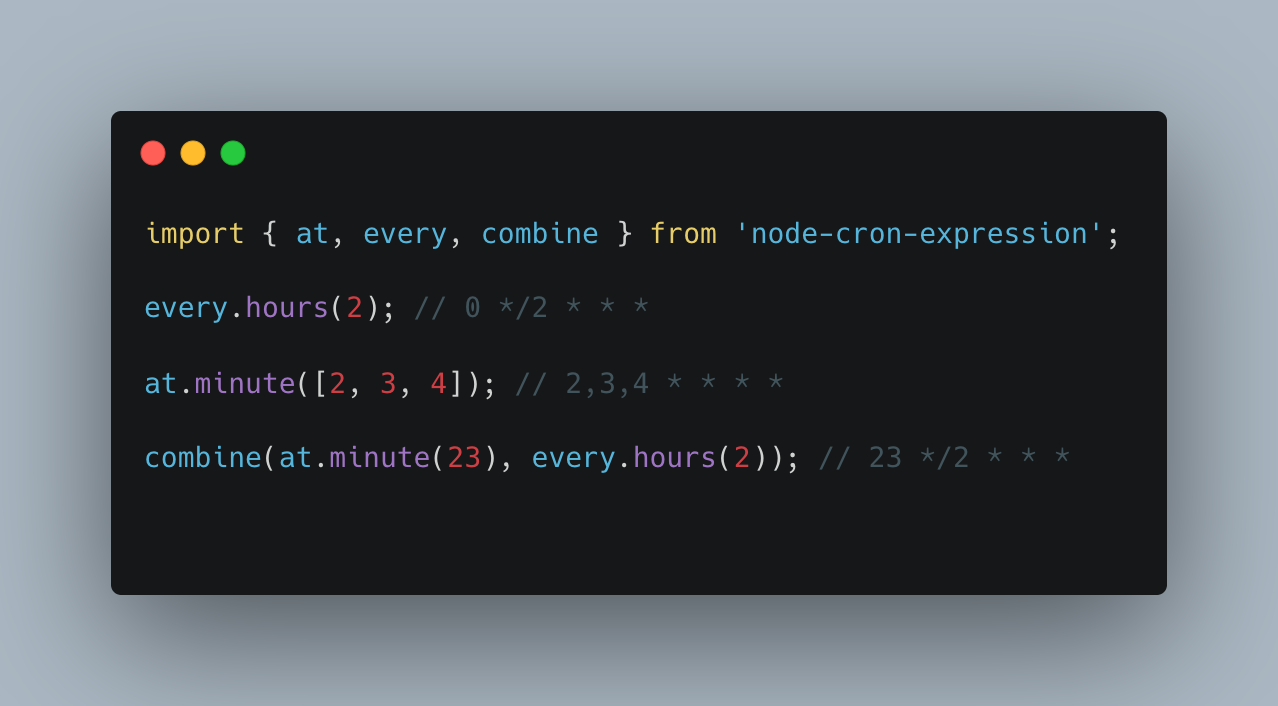
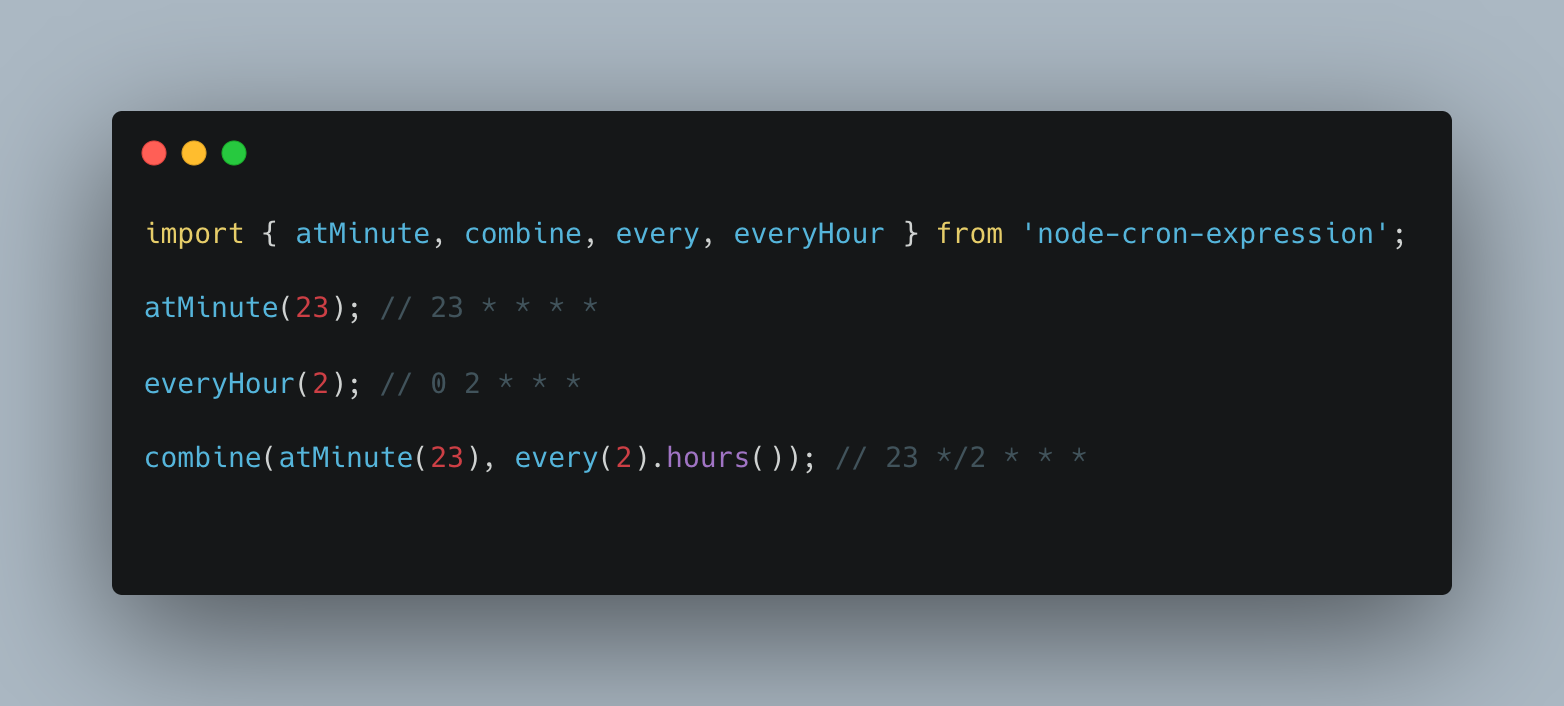
feat: update docs, refactor API, revise README

Changed region(s): [[0.061, 0.1558, 0.946, 0.8414], [0.5798, 0.5297, 0.6103, 0.5609]]

diff --git a/README.md b/README.md
@@ -3,6 +3,8 @@
 [![npm](https://img.shields.io/npm/l/node-cron-expression.svg)](https://github.com/merencia/node-cron-expression/blob/master/LICENSE.md)
 [![npm](https://img.shields.io/npm/v/node-cron-expression.svg)](https://img.shields.io/npm/v/node-cron-expression.svg)
 
+**Declarative functional cron expression builder. Use it with tools like [node-cron](https://github.com/node-cron/node-cron) or [bull](https://github.com/OptimalBits/bull)**
+
 [![SS](./SS.png)](./SS.png)
 
 ## Getting Started
@@ -16,20 +18,16 @@ $ npm install --save node-cron-expression
 Import `node-cron-expression` and build an expression
 
 ```javascript
-const { on, every } = require('node-cron-expression');
+const { onDayOfTheWeek, every, everyHour } = require('node-cron-expression');
 
-console.log(on.dayOfTheWeek(6)); // 0 0 * * 6
-console.log(every.hour()); // 0 * * * *
-console.log(every.hours(8)); // 0 */8 * * *
+console.log(onDayOfTheWeek(6)); // 0 0 * * 6
+console.log(everyHour()); // 0 * * * *
+console.log(every(8).hours()); // 0 */8 * * *
 ```
 
-## Cron Syntax
+## Documentation
 
-...
-
-## Basic methods
-
-...
+Find all available methods with examples [here](https://kbariotis.github.io/node-cron-expression).
 
 ## Issues
 
